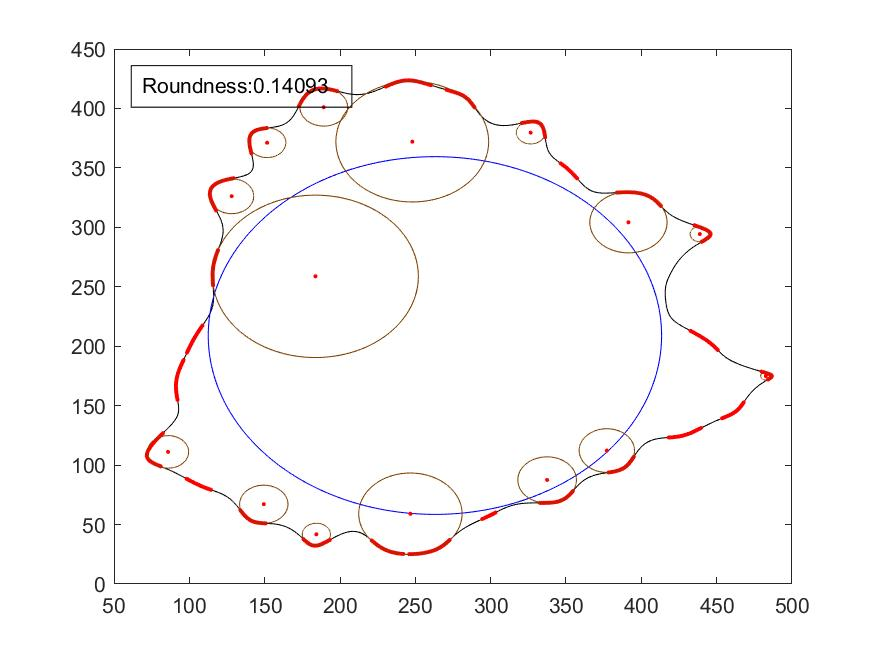
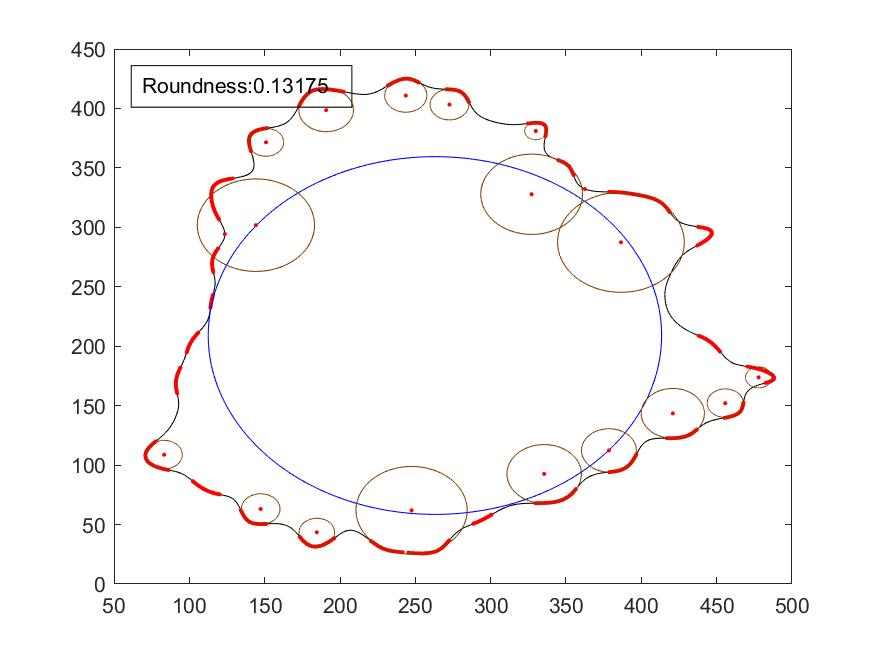
Algoritmo tunneado

diff --git a/inscribedCircles_5.m b/inscribedCircles_5.m
@@ -25,7 +25,7 @@ temp=imfill(bwmorph(temp,'bridge'),'holes');
 
 X = [x,y];
 [L2,R2,K2] = curvature(X);
-
+mag=sqrt(K2(:,1).^2+K2(:,2).^2);
 Si=sign(K2);
 temp2=false(size(temp));
 LX=false(length(x),1);
@@ -35,7 +35,7 @@ for i=2:length(x)-1
     temp2(L(i,1)+Si(i,1),L(i,2)+Si(i,2))=1;
     t=and(temp2,temp);
     LX(i)=sum(t(:));
-    if LX(i)>0
+    if LX(i)>0 && mag(i)>0.001
         xt=[xt x(i)];
         yt=[yt y(i)];
         points=[points, i];
@@ -46,9 +46,12 @@ end
 
 
 [results]=fitting_circ(xt,yt,radii,dist_max,imSmooth,0);
-
-
-
+if size(results,1)>10
+[~,ind]= min([results{:,1}]);
+results(ind,:)=[];
+[~,ind]= max([results{:,1}]);
+results(ind,:)=[];
+end
 %%%%%%%%%%%%%%%%%%%%%%%%%%%%%%%%%%%%%%%%%%%%%%%%%%%%%
 %%%%%%%%%%%%%%%%%%%%%%%%%%%%% show results
 fig1=figure('color',[1 1 1]);
@@ -96,8 +99,8 @@ end
 %     view(axes2,[-180 90]);
 dim = [.15 .85 .05 .05];
 roundness = (inscribedRadii/size(results,1))/radii;
-annotation('textbox',dim,'String',"Roundness:"+(roundness*10)/10,'FitBoxToText','on');
-saveas(fig2,"resultados2/"+im_name)
+annotation('textbox',dim,'String',"Roundness:"+roundness,'FitBoxToText','on');
+saveas(fig2,"results/"+im_name)
 close (fig1)
 end
 
@@ -168,7 +171,7 @@ while lenx>2
             
             [~,gof,~]=fit(x(re)',y(re)','poly1');
             
-            if gof.rsquare<0.9
+            if gof.rsquare<0.95
                 cent=[xc,yc];
                 result(cont,1)={R};
                 result(cont,2)={cent};

diff --git a/analyze_multiple_images.m b/analyze_multiple_images.m
@@ -1,4 +1,4 @@
-function analyze_multiple_images
+% function analyze_multiple_images
 %%%Read multiple image
 
 pathi=[pwd,'\testimage'];
@@ -9,9 +9,29 @@ else
     ni=1;
     file={file};
 end
-armon=30;
+armon=40;
 dist_max=15;
+
+%Bueno 2
+% armon=40;
+% dist_max=15;
+
+%Bueno 1
+% armon=30;
+% dist_max=15;
 roundness=zeros(1,ni);
 for i=1:ni
 roundness(i) = inscribedCircles_5 ([path, file{i}],armon,dist_max,file{i});
 end
+class1=roundness(1:5);
+class2=roundness(6:10);
+class3=roundness(11:15);
+class4=roundness(16:20);
+class5=roundness(21:25);
+figure
+plot(1:5,class1,'s','color',[1 0 0],'MarkerFaceColor',[1,0,0])
+hold on
+plot(6:10,class2,'s','color',[0 1 0],'MarkerFaceColor',[0,1,0])
+plot(11:15,class3,'s','color',[0 0 1],'MarkerFaceColor',[0,0,1])
+plot(16:20,class4,'s','color',[1 0 1],'MarkerFaceColor',[1,0,1])
+plot(21:25,class5,'s','color',[0 1 1],'MarkerFaceColor',[0,1,1])
